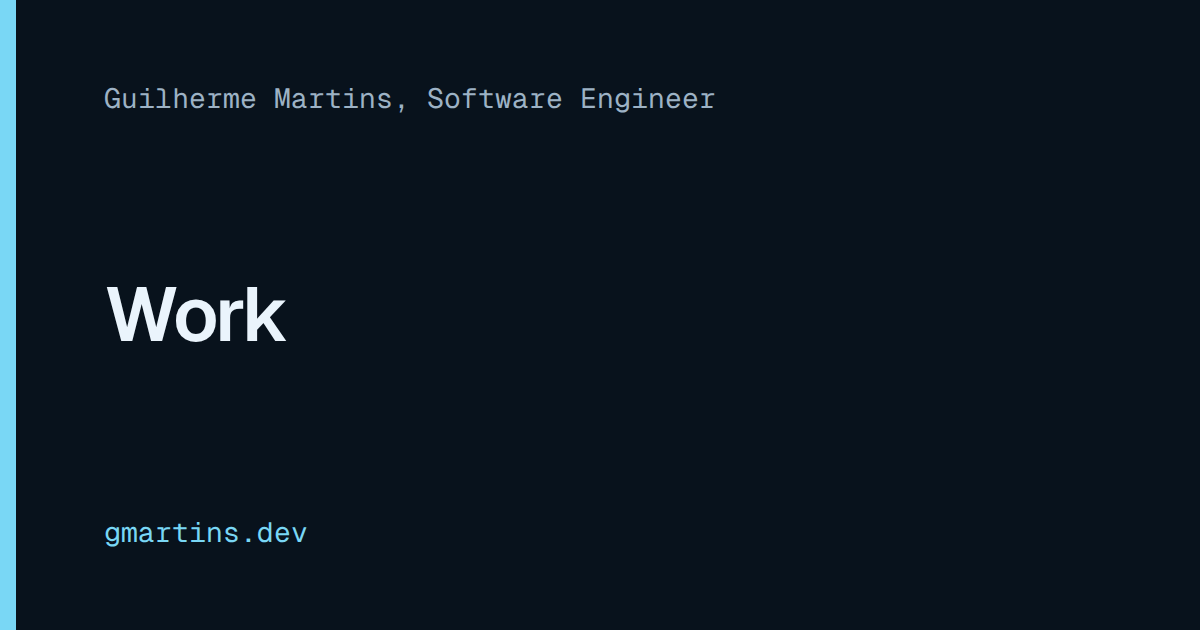
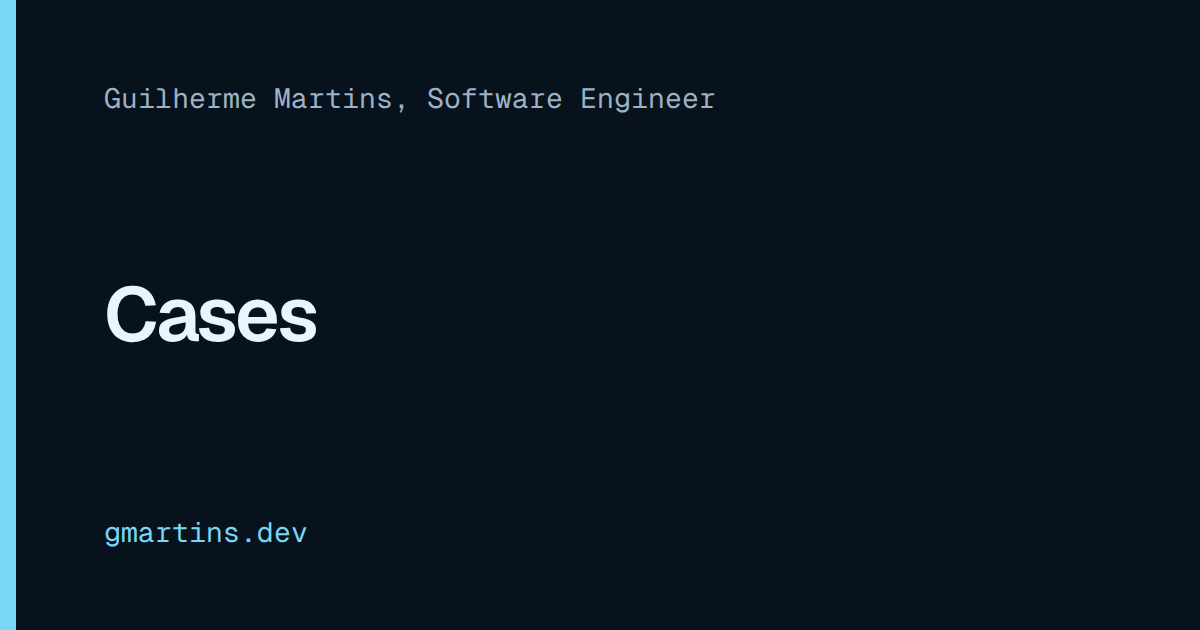
feat(nav): rename Work to Cases and add How I work to the header
Rename the visible section label to Cases in both locales, with the
matching headings, titles, links, tests and llms.txt entry. The URL
stays /work. Add a How I work link to the header, next to the footer
link. On phones the nav now wraps below the name, so the phone header
test allows three rows instead of two.

Changed region(s): [[0.0617, 0.4524, 0.2775, 0.5429]]

diff --git a/src/content/copy.ts b/src/content/copy.ts
@@ -27,8 +27,8 @@ export const copy = {
 		},
 		work: {
 			title: {
-				en: "Work and case studies | Guilherme Martins",
-				"pt-BR": "Trabalhos e estudos de caso | Guilherme Martins",
+				en: "Cases | Guilherme Martins",
+				"pt-BR": "Cases | Guilherme Martins",
 			},
 			description: {
 				en: "Case studies and projects by Guilherme Martins: a collaborative SaaS, developer tooling, backend consistency, products built at Backbase, Nisien.ai and Vochlea, and client work.",
@@ -83,7 +83,7 @@ export const copy = {
 	nav: {
 		label: { en: "Main", "pt-BR": "Principal" },
 		home: { en: "Home", "pt-BR": "Início" },
-		work: { en: "Work", "pt-BR": "Trabalhos" },
+		work: { en: "Cases", "pt-BR": "Cases" },
 		about: { en: "About", "pt-BR": "Sobre" },
 		resume: { en: "Resume", "pt-BR": "Currículo" },
 		contact: { en: "Contact", "pt-BR": "Contato" },
@@ -124,8 +124,8 @@ export const copy = {
 			"pt-BR":
 				"Sou Guilherme Martins, engenheiro de software com foco em engenharia de produto e arquitetura de software. Construo produtos full-stack que se sustentam em produção, com agentes de código em cada etapa dentro de um processo spec-driven que mantém o trabalho revisado e testado. Trabalhei com times no Brasil e no Reino Unido em fintech, cibersegurança com IA e saúde.",
 		},
-		workCta: { en: "See the work", "pt-BR": "Ver trabalhos" },
-		workHeading: { en: "Selected work", "pt-BR": "Trabalhos selecionados" },
+		workCta: { en: "See the cases", "pt-BR": "Ver cases" },
+		workHeading: { en: "Selected cases", "pt-BR": "Cases selecionados" },
 		readCaseStudy: {
 			en: "Read the case study",
 			"pt-BR": "Ler o estudo de caso",
@@ -209,7 +209,7 @@ export const copy = {
 		},
 	],
 	work: {
-		heading: { en: "Work", "pt-BR": "Trabalhos" },
+		heading: { en: "Cases", "pt-BR": "Cases" },
 		intro: {
 			en: "Case studies, the public products I helped build, and client and community work. Employer work is under confidentiality terms, so the professional case study is anonymized.",
 			"pt-BR":
@@ -235,7 +235,7 @@ export const copy = {
 		stack: { en: "Stack", "pt-BR": "Stack" },
 		links: { en: "Links", "pt-BR": "Links" },
 		reviewed: { en: "Facts checked on", "pt-BR": "Fatos verificados em" },
-		back: { en: "All work", "pt-BR": "Todos os trabalhos" },
+		back: { en: "All cases", "pt-BR": "Todos os cases" },
 		otherStudies: {
 			en: "Other case studies",
 			"pt-BR": "Outros estudos de caso",
@@ -249,9 +249,9 @@ export const copy = {
 	projects: {
 		heading: { en: "More projects", "pt-BR": "Mais projetos" },
 		intro: {
-			en: "Smaller projects, technical challenges and earlier work, kept here for reference. The Work page has my current work in depth.",
+			en: "Smaller projects, technical challenges and earlier work, kept here for reference. The Cases page has my current work in depth.",
 			"pt-BR":
-				"Projetos menores, desafios técnicos e trabalhos anteriores, reunidos aqui como referência. A página Trabalhos mostra meu trabalho atual em profundidade.",
+				"Projetos menores, desafios técnicos e trabalhos anteriores, reunidos aqui como referência. A página Cases mostra meu trabalho atual em profundidade.",
 		},
 		recent: {
 			en: "Recent projects and technical challenges",
@@ -279,9 +279,9 @@ export const copy = {
 			],
 		},
 		confidential: {
-			en: "Much of this work is under confidentiality terms. The Work page shows what is public.",
+			en: "Much of this work is under confidentiality terms. The Cases page shows what is public.",
 			"pt-BR":
-				"Boa parte desse trabalho é confidencial. A página Trabalhos mostra o que é público.",
+				"Boa parte desse trabalho é confidencial. A página Cases mostra o que é público.",
 		},
 		experienceHeading: { en: "Experience", "pt-BR": "Experiência" },
 		productLink: { en: "See the product", "pt-BR": "Ver o produto" },

diff --git a/e2e/navigation.spec.ts b/e2e/navigation.spec.ts
@@ -16,13 +16,13 @@ test("skip link moves focus to the main content", async ({
 
 test("work journey: home to case study and back", async ({ page }) => {
 	await page.goto("/");
-	await page.getByRole("link", { name: "See the work" }).click();
+	await page.getByRole("link", { name: "See the cases" }).click();
 	await expect(page).toHaveURL(/\/work$/);
 	await page.getByRole("link", { name: "Priorize.me" }).first().click();
 	await expect(page).toHaveURL(/\/work\/priorize-me$/);
 	await expect(page).toHaveTitle("Priorize.me case study | Guilherme Martins");
-	await page.getByRole("link", { name: "All work" }).click();
-	await expect(page.getByRole("heading", { level: 1 })).toHaveText("Work");
+	await page.getByRole("link", { name: "All cases" }).click();
+	await expect(page.getByRole("heading", { level: 1 })).toHaveText("Cases");
 });
 
 test("client-side navigation moves focus to the new page heading", async ({
@@ -70,7 +70,7 @@ test("legacy short links redirect", async ({ request }) => {
 	}
 });
 
-test("an About company link opens its product on the Work page", async ({
+test("an About company link opens its product on the Cases page", async ({
 	page,
 }) => {
 	await page.goto("/about");
@@ -86,17 +86,16 @@ test("an About company link opens its product on the Work page", async ({
 test.describe("phone header", () => {
 	for (const width of [320, 360, 390]) {
 		for (const path of ["/", "/pt-br"]) {
-			test(`${path} at ${width}px fits on two rows`, async ({ page }) => {
+			test(`${path} at ${width}px fits in three rows`, async ({ page }) => {
 				await page.setViewportSize({ width, height: 800 });
 				await page.goto(path);
 				const top = async (selector: string) =>
 					(await page.getByRole("banner").locator(selector).boundingBox())?.y;
-				// Row 1 is the name; nav and language share row 2.
+				// Row 1 is the name; the nav wraps below it on narrow phones.
 				const navTop = await top("nav");
 				expect(navTop).toBeGreaterThan((await top("a[translate=no]")) ?? 0);
-				expect(await top("a[hreflang]")).toBeCloseTo(navTop ?? 0, -1);
 				const header = await page.getByRole("banner").boundingBox();
-				expect(header?.height).toBeLessThan(110);
+				expect(header?.height).toBeLessThan(160);
 			});
 		}
 	}

diff --git a/src/llms-txt.ts b/src/llms-txt.ts
@@ -35,7 +35,7 @@ export function buildLlmsTxt() {
 		"## Pages",
 		"",
 		`- [Home](${url("/")}): positioning, selected work, capabilities and experience summary`,
-		`- [Work](${url("/work")}): case studies, public products he worked on, client websites and community work`,
+		`- [Cases](${url("/work")}): case studies, public products he worked on, client websites and community work`,
 		`- [More projects](${url("/projects")}): smaller projects, technical challenges and earlier work, with demos and source`,
 		`- [How I work](${url("/how-i-work")}): his development process with coding agents: specs, bounded tasks, quality gates, human review and ADRs`,
 		`- [About](${url("/about")}): full professional history, education, tools and resumes`,

diff --git a/e2e/pages.ts b/e2e/pages.ts
@@ -1,7 +1,7 @@
 /** Every prerendered page, with the h1 it must show. Kept in sync by e2e/pages.spec.ts. */
 export const pages = [
 	{ path: "/", lang: "en", h1: "From problem definition to production." },
-	{ path: "/work", lang: "en", h1: "Work" },
+	{ path: "/work", lang: "en", h1: "Cases" },
 	{
 		path: "/work/ai-first-online-banking",
 		lang: "en",
@@ -17,7 +17,7 @@ export const pages = [
 		lang: "pt-BR",
 		h1: "Da definição do problema ao software em produção.",
 	},
-	{ path: "/pt-br/work", lang: "pt-BR", h1: "Trabalhos" },
+	{ path: "/pt-br/work", lang: "pt-BR", h1: "Cases" },
 	{
 		path: "/pt-br/work/ai-first-online-banking",
 		lang: "pt-BR",

diff --git a/e2e/a11y.spec.ts b/e2e/a11y.spec.ts
@@ -130,7 +130,7 @@ test.describe("print @a11y", () => {
 
 		// Controls that do nothing on paper are left out.
 		await expect(page.getByRole("navigation", { name: "Main" })).toBeHidden();
-		await expect(page.getByRole("link", { name: "All work" })).toBeHidden();
+		await expect(page.getByRole("link", { name: "All cases" })).toBeHidden();
 		await expect(page.getByRole("link", { name: "Email me" })).toBeHidden();
 		await expect(page.getByText("contact@gmartins.dev")).toBeVisible();
 

diff --git a/src/components/site-header.tsx b/src/components/site-header.tsx
@@ -48,6 +48,15 @@ export function SiteHeader() {
 							</li>
 							<li>
 								<Link
+									to={href("/how-i-work")}
+									activeOptions={{ exact: true }}
+									className={navLinkClass}
+								>
+									{t(copy.howIWork.heading, locale)}
+								</Link>
+							</li>
+							<li>
+								<Link
 									to={href("/about")}
 									activeOptions={{ exact: true }}
 									className={navLinkClass}
